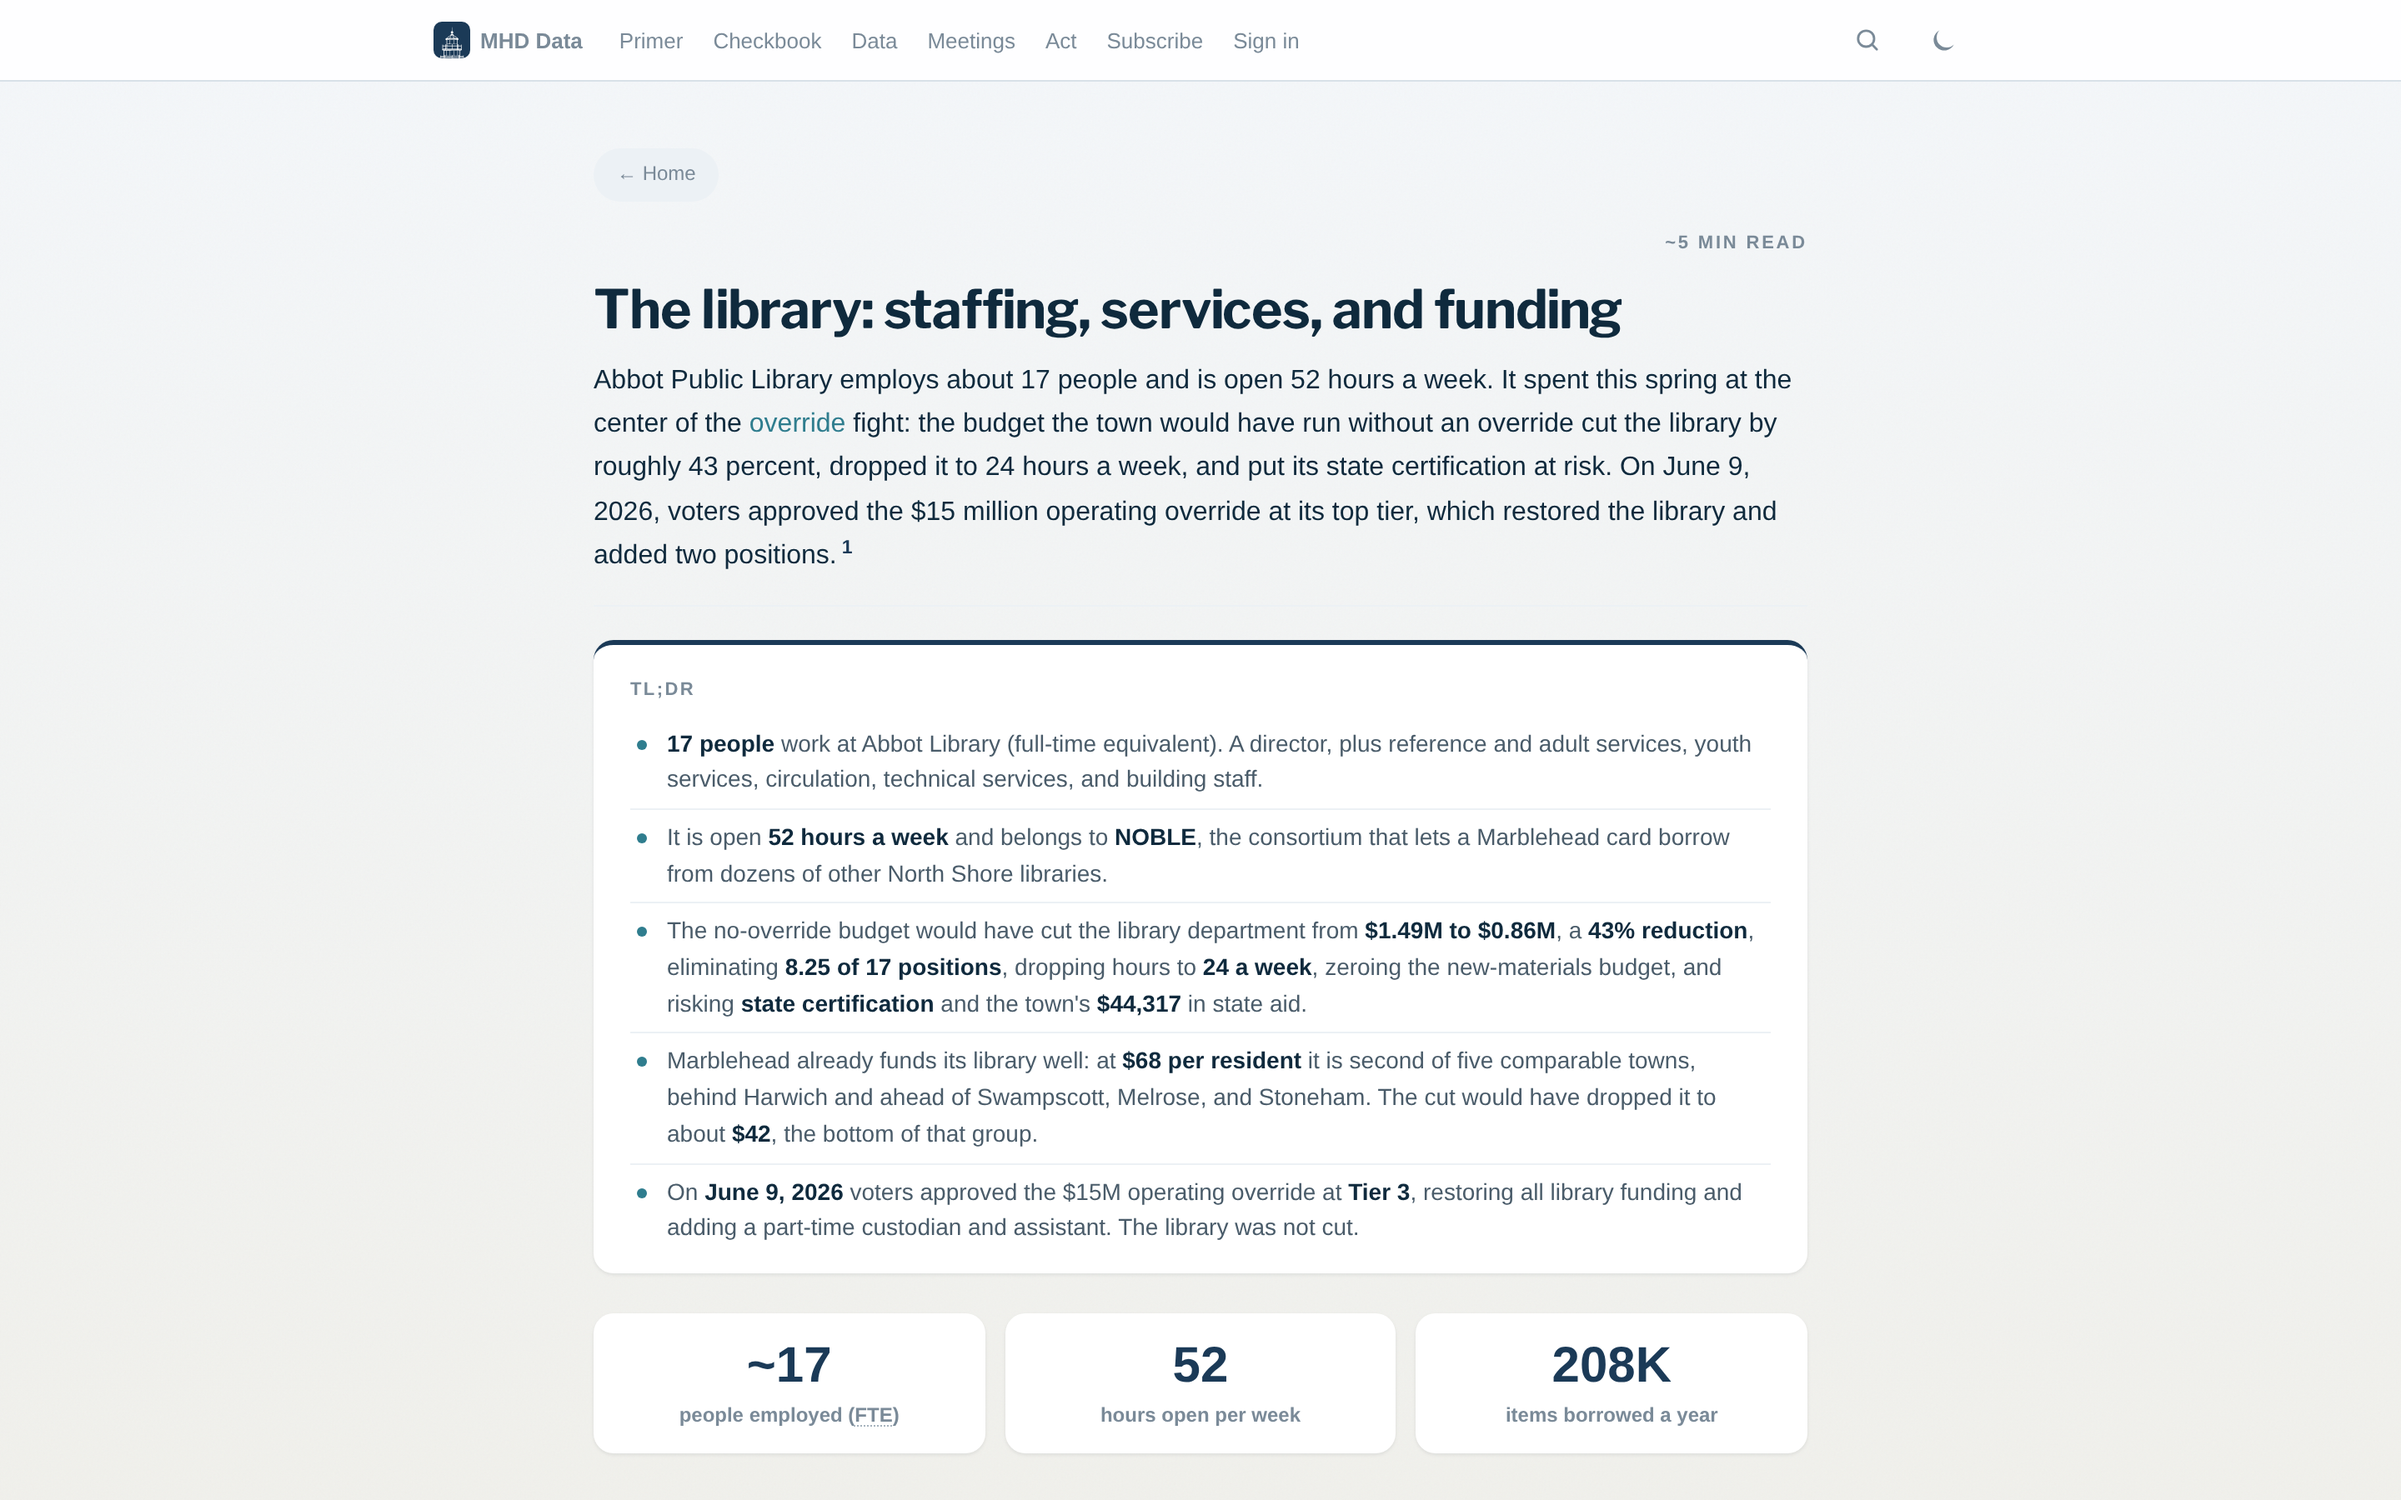
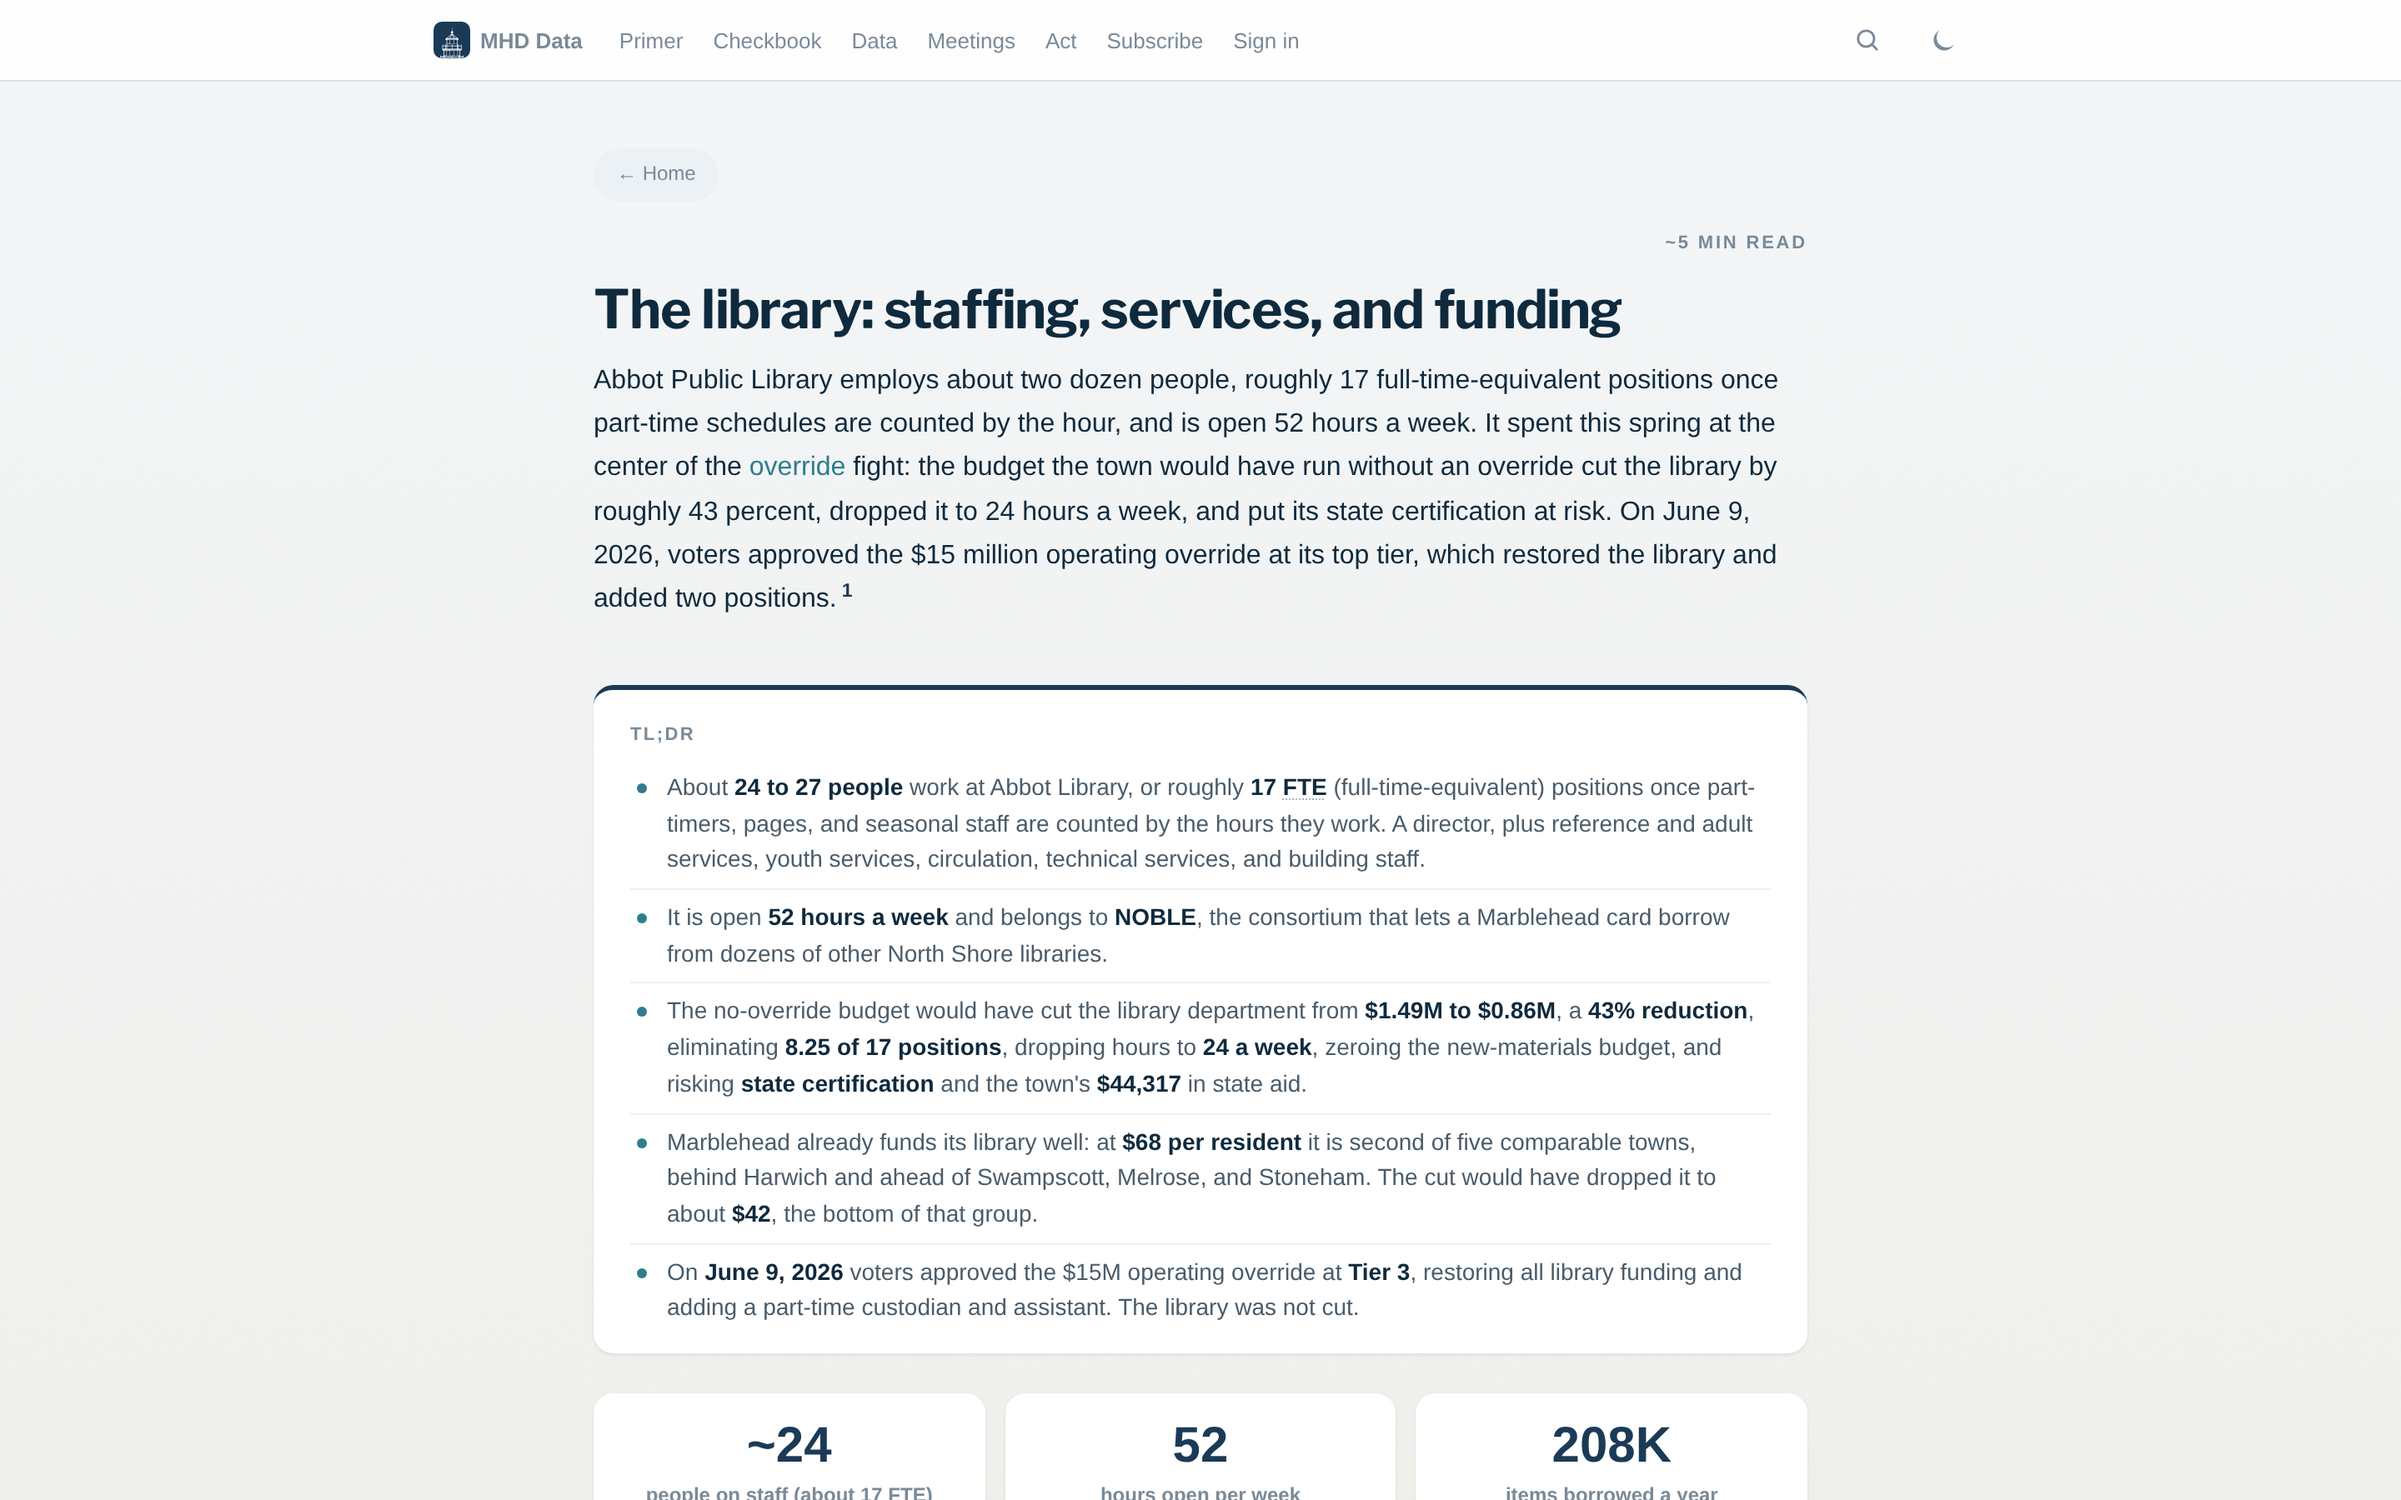
Clarify library staffing: headcount vs FTE
Distinguish people from full-time-equivalents so "how many people"
is answered with the headcount, not the FTE. Pages, subs, and
seasonal staff are included in both; the difference is that FTE
weights each by hours worked.

- Lead + TL;DR + stat card now say ~24 to 27 people (town FY26 roster
  27, MBLC FY25 survey 24), which is roughly 17 FTE.
- New sentence explains why the two differ.
- Refreshed proof screenshots.

Generated with [Claude Code](https://claude.ai/code)
via [Happy](https://happy.engineering)

Changed region(s): [[0.25, 0.2489, 0.75, 1.0], [0.625, 0.9022, 0.7188, 1.0]]

diff --git a/library.html b/library.html
@@ -1,8 +1,8 @@
 ---
 title: "The library: staffing, services, and funding"
 scripts: [citations, deep-dive]
-og_title: "Abbot Library: 17 staff, 52 hours a week, and the cut voters reversed"
-og_description: "Abbot Public Library employs about 17 people and is open 52 hours a week. The no-override budget would have cut it 43%; voters restored it in June. How it compares to four other towns."
+og_title: "Abbot Library: two dozen staff, 52 hours a week, and the cut voters reversed"
+og_description: "Abbot Public Library employs about two dozen people (roughly 17 full-time-equivalent) and is open 52 hours a week. The no-override budget would have cut it 43%; voters restored it in June. How it compares to four other towns."
 og_url: https://marbleheaddata.org/library.html
 ---
 <style>
@@ -139,12 +139,12 @@ og_url: https://marbleheaddata.org/library.html
 
 <h1>The library: staffing, services, and funding</h1>
 
-<p class="page-lead">Abbot Public Library employs about 17 people and is open 52 hours a week. It spent this spring at the center of the <a href="/2026-override/">override</a> fight: the budget the town would have run without an override cut the library by roughly 43 percent, dropped it to 24 hours a week, and put its state certification at risk. On June 9, 2026, voters approved the $15 million operating override at its top tier, which restored the library and added two positions.<sup class="cite" data-href="https://marbleheadcurrent.org/2026/04/01/abbot-library-to-open-only-three-days-a-week-with-new-budget/" data-source="Marblehead Current, &quot;Abbot Library to open only three days a week with new budget&quot; (April 1, 2026): 17 FTE currently, no-override budget eliminates 8.25 FTE and retains 8.74, hours drop from 52 to 24 per week with no evenings or Saturdays, new-materials budget eliminated, certification at risk."></sup></p>
+<p class="page-lead">Abbot Public Library employs about two dozen people, roughly 17 full-time-equivalent positions once part-time schedules are counted by the hour, and is open 52 hours a week. It spent this spring at the center of the <a href="/2026-override/">override</a> fight: the budget the town would have run without an override cut the library by roughly 43 percent, dropped it to 24 hours a week, and put its state certification at risk. On June 9, 2026, voters approved the $15 million operating override at its top tier, which restored the library and added two positions.<sup class="cite" data-href="https://marbleheadcurrent.org/2026/04/01/abbot-library-to-open-only-three-days-a-week-with-new-budget/" data-source="Marblehead Current, &quot;Abbot Library to open only three days a week with new budget&quot; (April 1, 2026): 17 FTE currently, no-override budget eliminates 8.25 FTE and retains 8.74, hours drop from 52 to 24 per week with no evenings or Saturdays, new-materials budget eliminated, certification at risk."></sup></p>
 
 <div class="tldr">
   <p class="tldr-label">TL;DR</p>
   <ul>
-    <li><strong>17 people</strong> work at Abbot Library (full-time equivalent). A director, plus reference and adult services, youth services, circulation, technical services, and building staff.</li>
+    <li>About <strong>24 to 27 people</strong> work at Abbot Library, or roughly <strong>17 <abbr class="g" title="Full-Time Equivalent: staffing measured in full-time schedules, so a half-time worker counts as 0.5">FTE</abbr></strong> (full-time-equivalent) positions once part-timers, pages, and seasonal staff are counted by the hours they work. A director, plus reference and adult services, youth services, circulation, technical services, and building staff.</li>
     <li>It is open <strong>52 hours a week</strong> and belongs to <strong>NOBLE</strong>, the consortium that lets a Marblehead card borrow from dozens of other North Shore libraries.</li>
     <li>The no-override budget would have cut the library department from <strong>$1.49M to $0.86M</strong>, a <strong>43% reduction</strong>, eliminating <strong>8.25 of 17 positions</strong>, dropping hours to <strong>24 a week</strong>, zeroing the new-materials budget, and risking <strong>state certification</strong> and the town's <strong>$44,317</strong> in state aid.</li>
     <li>Marblehead already funds its library well: at <strong>$68 per resident</strong> it is second of five comparable towns, behind Harwich and ahead of Swampscott, Melrose, and Stoneham. The cut would have dropped it to about <strong>$42</strong>, the bottom of that group.</li>
@@ -153,14 +153,14 @@ og_url: https://marbleheaddata.org/library.html
 </div>
 
 <div class="stat-row">
-  <div class="stat-card"><div class="stat-num">~17</div><div class="stat-label">people employed (<abbr class="g" title="Full-Time Equivalent">FTE</abbr>)</div></div>
+  <div class="stat-card"><div class="stat-num">~24</div><div class="stat-label">people on staff (about 17 <abbr class="g" title="Full-Time Equivalent">FTE</abbr>)</div></div>
   <div class="stat-card"><div class="stat-num">52</div><div class="stat-label">hours open per week</div></div>
   <div class="stat-card"><div class="stat-num">208K</div><div class="stat-label">items borrowed a year</div></div>
 </div>
 
 <h2 id="who-works-there">Who works there, and what they do</h2>
 
-<p>The library is staffed at about <strong>17 full-time-equivalent</strong> <abbr class="g" title="Full-Time Equivalent: a way of counting staff where two half-time employees equal one FTE">positions</abbr>, a headcount that is higher because many roles are part-time. The director is Kimberly Grad.<sup class="cite" data-href="https://mblc.state.ma.us/directories/libraries/library.php?record_id=1469" data-source="Massachusetts Board of Library Commissioners directory, Abbot Public Library Marblehead: director Kimberly Grad, 235 Pleasant Street."></sup> The work divides into a few functions:</p>
+<p>Counting actual people, the library's roster runs to about <strong>24 to 27 individuals</strong>: the town's FY26 payroll lists 27, the state's FY25 survey counts 24. That is more than the <strong>17 <abbr class="g" title="Full-Time Equivalent: staffing measured in full-time schedules, so two half-time workers count as one FTE">full-time-equivalent</abbr> (FTE)</strong> figure the budget uses, because many staff, including pages, custodians, and seasonal help, work part-time and each counts as a fraction of a full-time schedule. The director is Kimberly Grad.<sup class="cite" data-href="https://mblc.state.ma.us/directories/libraries/library.php?record_id=1469" data-source="Massachusetts Board of Library Commissioners directory, Abbot Public Library Marblehead: director Kimberly Grad, 235 Pleasant Street. Headcount: town FY26 org chart roster 27 (data/_enrichment/fy27_personnel.yml, LIBRARY cost center); MBLC FY2025 ARIS reports 24 total staff and 19.41 FTE."></sup> The work divides into a few functions:</p>
 
 <ul class="tldr tldr--teal">
   <li><strong>Circulation</strong> checks materials in and out, manages holds and interlibrary loans, and issues cards. It is the desk most patrons interact with.</li>
